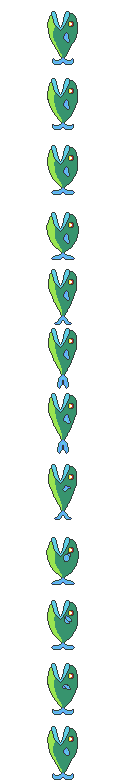
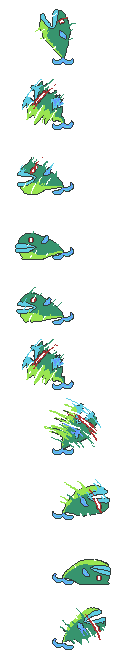
0603 test

Changed region(s): [[0.1185, 0.0, 0.8296, 1.0]]

diff --git a/src/scenes/Player.js b/src/scenes/Player.js
@@ -1,3 +1,5 @@
+import { Missile } from "./Missile";
+
 class Player extends Phaser.Physics.Arcade.Image{
     //게임 이미지에 장면을 저장하는 거구나!!!! 오옹
     constructor(scene, x, y){
@@ -11,7 +13,7 @@ class Player extends Phaser.Physics.Arcade.Image{
         this.setPosition(x,y);
         this.setDepth(6);
 
-        this.speed = 5;
+        this.speed = 10;
 
         //이동키 설정
         this.key = {
@@ -20,6 +22,9 @@ class Player extends Phaser.Physics.Arcade.Image{
             left : scene.input.keyboard.addKey(Phaser.Input.Keyboard.KeyCodes.LEFT),
             right : scene.input.keyboard.addKey(Phaser.Input.Keyboard.KeyCodes.RIGHT)
         }
+
+        //미사일 설정
+        this.missile = new Missile(scene)
 
         scene.add.existing(this);
         scene.physics.add.existing(this);
@@ -36,15 +41,17 @@ class Player extends Phaser.Physics.Arcade.Image{
             const distance = Phaser.Math.Distance.Between(
                 pointer.x, pointer.y, this.x, this.y
             )
-            //각도 계산
-            const angle = Phaser.Math.Angle.Between(
-                pointer.x, pointer.y, this.x, this.y
-            )
-            const dx = Math.cos(angle) * this.speed;
-            const dy = Math.sin(angle) * this.speed;
-
-            this.x -= dx;
-            this.y -= dy;
+            if(distance > this.speed){
+                //각도 계산
+                const angle = Phaser.Math.Angle.Between(
+                    pointer.x, pointer.y, this.x, this.y
+                )
+                const dx = Math.cos(angle) * this.speed;
+                const dy = Math.sin(angle) * this.speed;
+    
+                this.x -= dx;
+                this.y -= dy;
+            }
         }
         //추가해둔 키보드 방향키가 눌리면 isDown 속성이 true가 되기 때문에
         //해당 키에 맞게 x,y 좌표를 변경해야 함(speed 반영)

diff --git a/src/scenes/Enemy.js b/src/scenes/Enemy.js
@@ -1,18 +1,24 @@
+import { Missile } from "./Missile";
+
 class Enemy extends Phaser.Physics.Arcade.Sprite{
 
     //몬스터 클래스에서 필요한 정보들은 모두 자신인 this에 설정한다
     //this에 설정한 정보들은 클래스 내부의 모든 함수에서 사용할 수 있다
-    constructor(scene, x, y){ //초기화
+    constructor(scene, x, y, target){ //초기화
         super(scene, x, y)
         //장면 객체 저장 
         this.scene = scene;
 
-        // this.enemy = this.add.sprite(center.x, height * 1 / 5)
-        //     .play('fishMove')
+        //타겟 설정(플레이어)
+        this.target = target;
+
         //이미지 클래스를 상속받았기 때문에 setTexture 함수를 사용할 수 있음
         //몬스터 설정 ( 대상의 출력 이미지를 설정하는 함수이며 이를 이용해 다른 이미지로의 변경 가능 )
         scene.add.sprite(x, y * 2 / 5)
-        .setDisplaySize(100, 100).play('slimeMove')
+        .setDisplaySize(200, 200)
+        .play('slimeMove')
+
+        this.missile = new Missile(scene)
 
         this.setPosition(x,y)
         this.setDepth(5);
@@ -27,7 +33,8 @@ class Enemy extends Phaser.Physics.Arcade.Sprite{
 
     //갱신
     preUpdate(){
-
+        //타겟과 스피드
+        this.missile.createLinearDownMissile(this.target, 100)
     }
 }
 

diff --git a/src/scenes/Preloader.js b/src/scenes/Preloader.js
@@ -14,9 +14,9 @@ class Preloader extends Scene {
     #background() {
         this.load.path = 'assets/background/';
         this.load.image('background', 'background.png')
-        this.load.spritesheet('fish', 'fish.png', { frameWidth: 33, frameHeight: 70 })
+        this.load.spritesheet('fish', 'fish.png', { frameWidth: 135, frameHeight: 65 })
         this.load.spritesheet('MonsterDefault', 'move-fs8.png', { frameWidth: 90, frameHeight: 118 });
-        this.load.spritesheet('slime', 'slime.png', { frameWidth: 33, frameHeight: 21 })
+        this.load.spritesheet('slime', 'slime.png', { frameWidth: 39, frameHeight: 30 })
     
     }
 
@@ -44,7 +44,7 @@ class Preloader extends Scene {
     #createAnimation() {
         this.anims.create({
             key: 'fishMove',
-            frames: this.anims.generateFrameNumbers('fish', { start: 0, end: 12 }),
+            frames: this.anims.generateFrameNumbers('fish', { start: 0, end: 9 }),
             frameRate: 4,
             repeat: -1
         });
@@ -59,7 +59,7 @@ class Preloader extends Scene {
         });
         this.anims.create({
             key: 'slimeMove',
-            frames: this.anims.generateFrameNumbers('slime', { start: 0, end: 12 }),
+            frames: this.anims.generateFrameNumbers('slime', { start: 0, end: 6 }),
             frameRate: 4,
             repeat: -1
         });

diff --git a/src/scenes/Missile.js b/src/scenes/Missile.js
@@ -1,0 +1,35 @@
+class Missile extends Phaser.Physics.Arcade.Sprite{
+    constructor(scene){
+        super(scene)
+
+        //장면 저장
+        this.scene = scene
+
+        //미사일 그룹 생성
+        this.group = scene.physics.add.group({
+            defaultKey:"fish",
+            collideWorldBounds:true
+        })
+
+        //벽 충돌 시 소멸 처리 
+        scene.physics.world.on('worldbounds', (body) => {
+            body.gameObject.destory();
+        })
+    }
+
+    //아래로 떨어지는 미사일
+    createLinearDownMissile(target, speed){
+        const missile = this.group.createMultiple({
+            frameQuantity:1,
+            key:'fish', //사용할 sprite 이미지
+            frame:[Phaser.Math.Between(0, 9)], //사용할 frame 번호
+            setXY:{x:100, y:50}
+        })
+        missile.forEach(element => {
+            //y축 속도를 전달받은 속도로 설정해 아래로 이동 처리하고 있음
+            element.setVelocityY()
+        });
+    }
+}
+
+export { Missile }

diff --git a/src/scenes/Round.js b/src/scenes/Round.js
@@ -17,9 +17,10 @@ class Round extends Phaser.Scene{
             y:y+height/2
         }
 
-        this.enemy = new Enemy(this, center.x, height*1/5);
+        
+        this.player = new Player(this, center.x, height * 4/5);
+        this.enemy = new Enemy(this, center.x, height*1/5, this.player);
 
-        this.player = new Player(this, center.x, height * 4/5)
         // console.log("Adding enemy sprite...");
         // this.enemy = this.add.sprite(center.x, height * 1 / 5)
         //     .play('fishMove')
